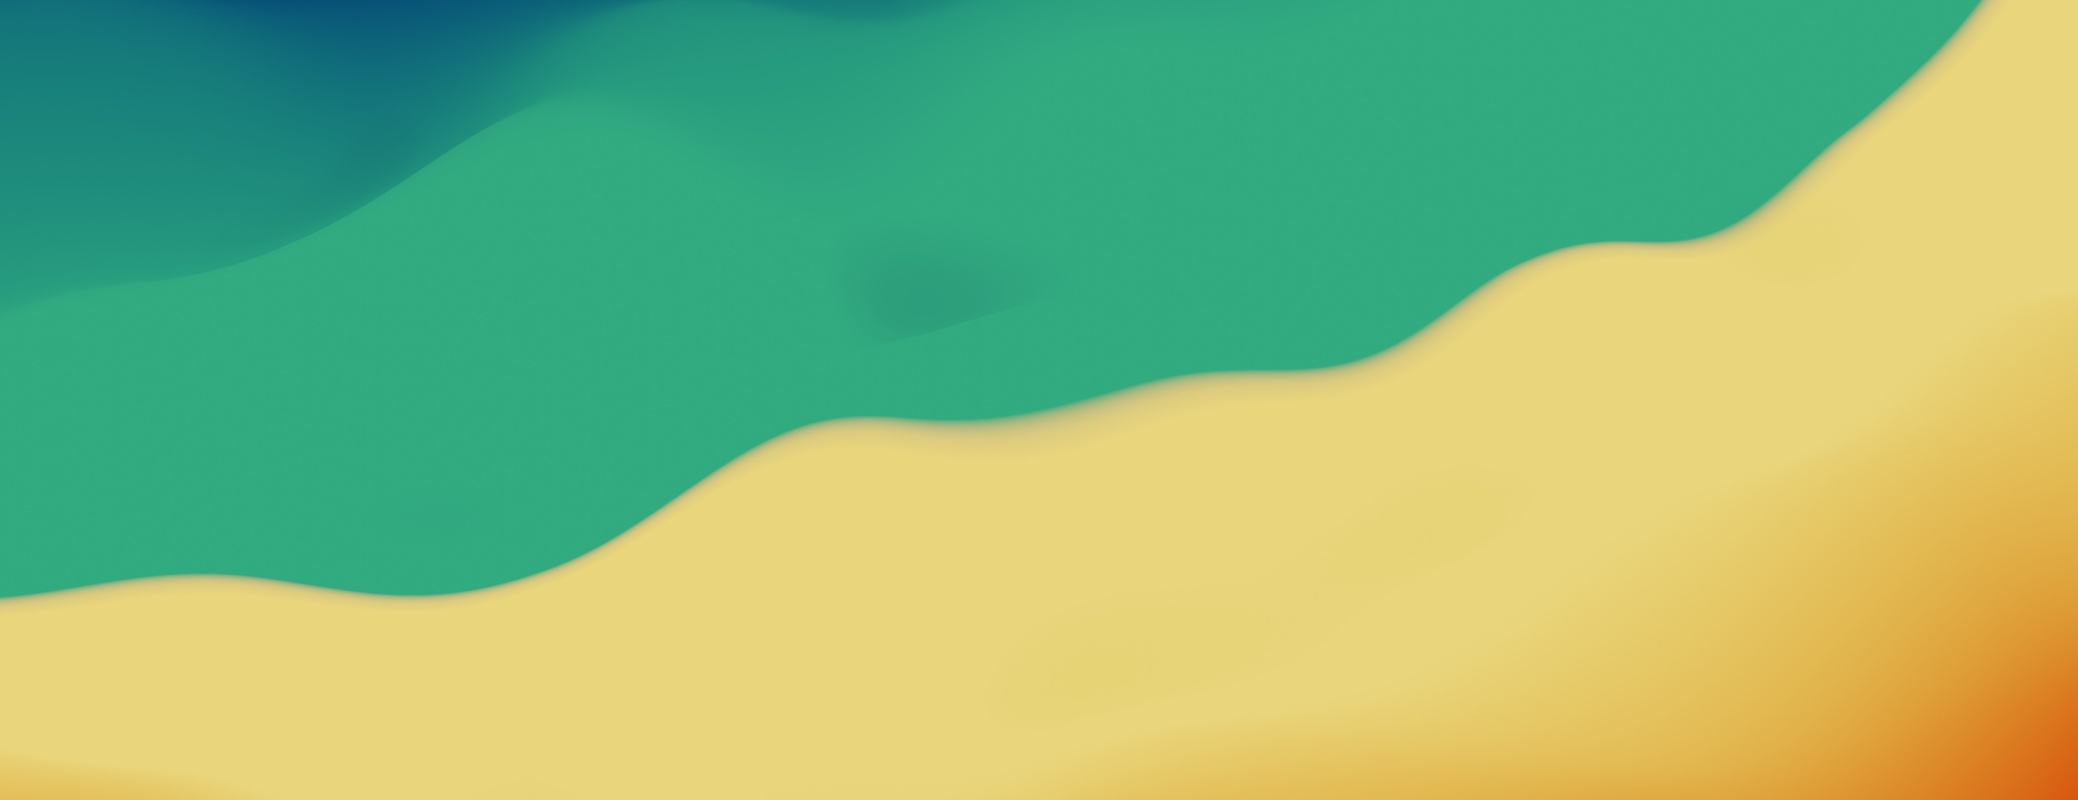
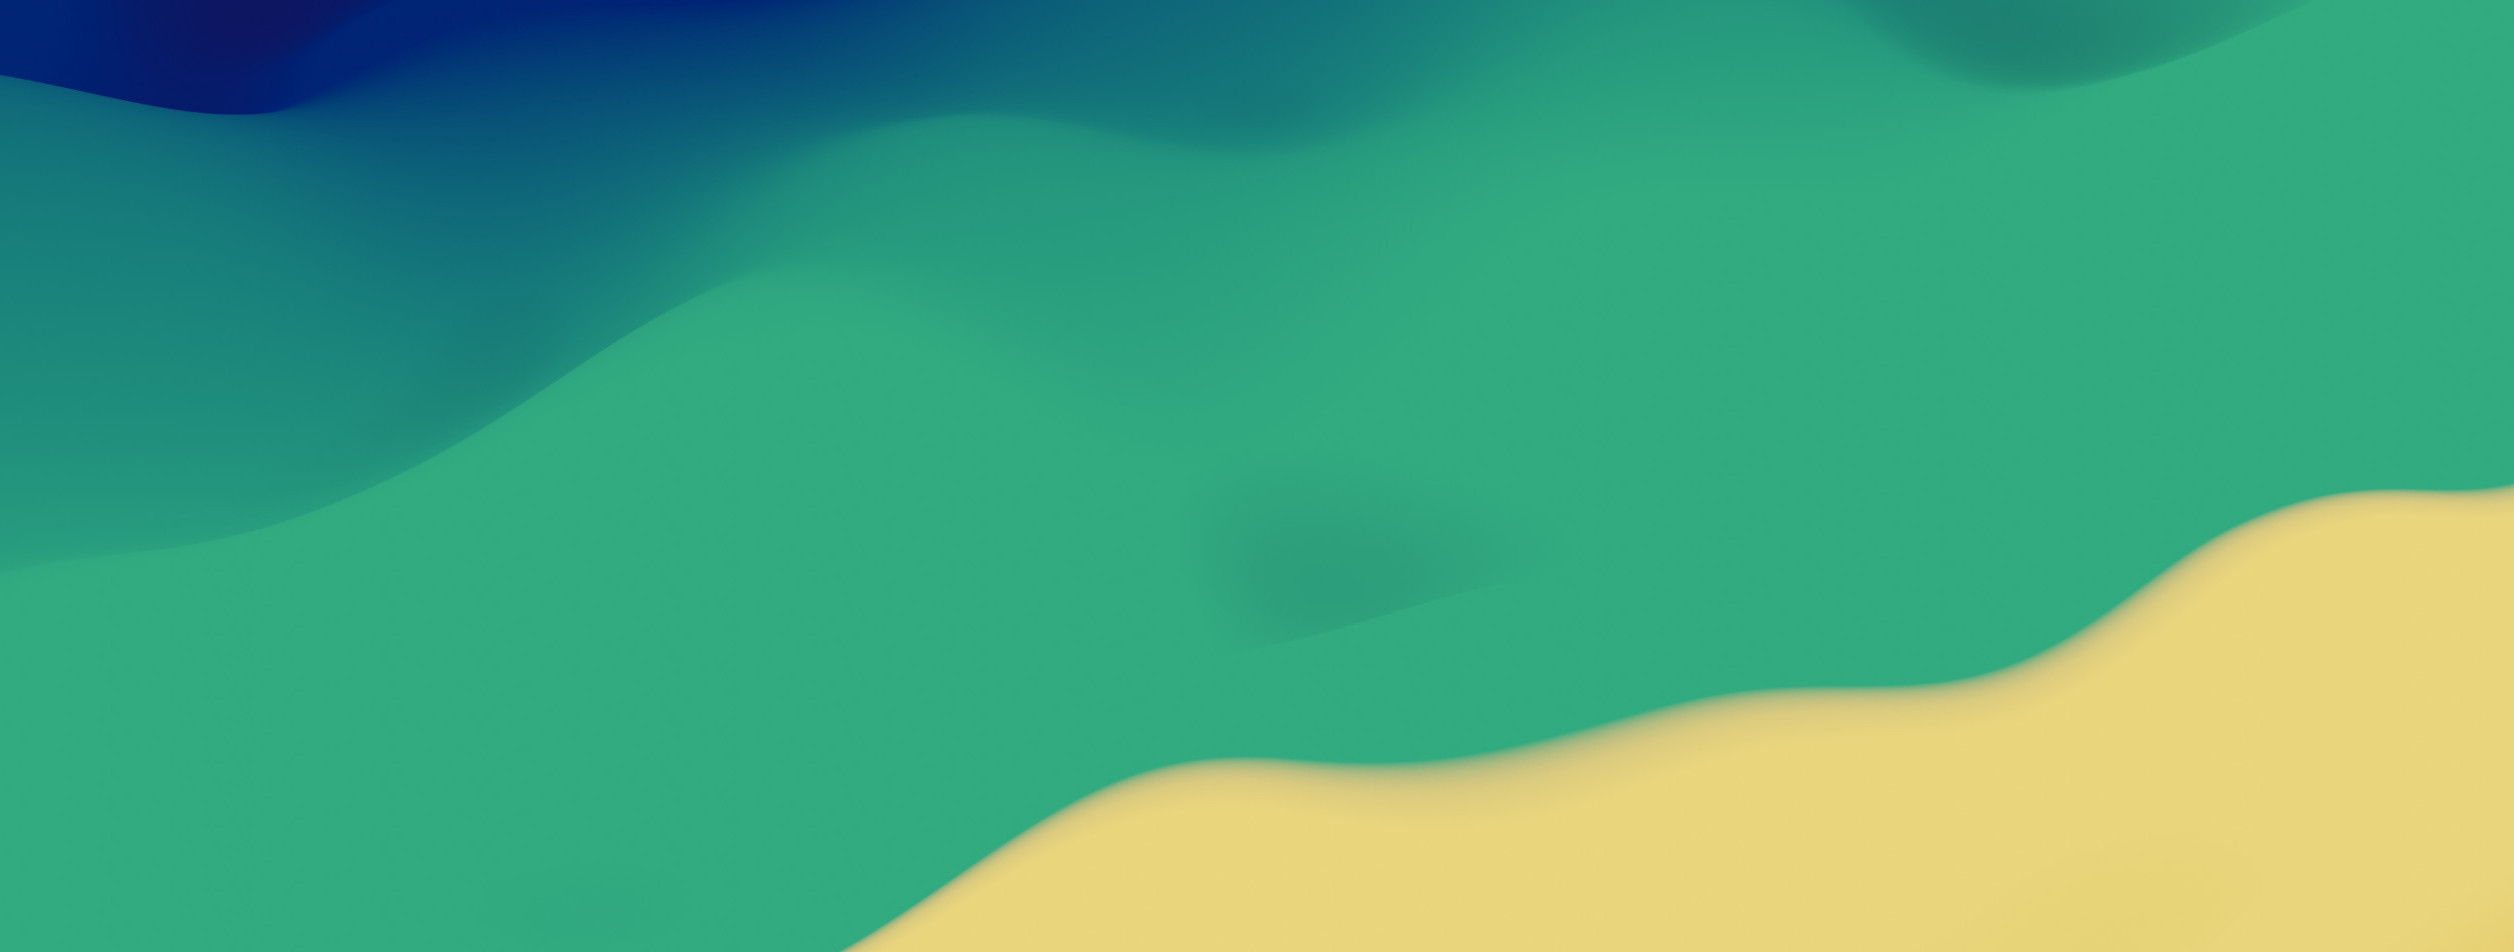
Make intro backdrops non sectioned

diff --git a/src/routes/__layout.svelte b/src/routes/__layout.svelte
@@ -29,7 +29,7 @@
 
 <Header --header-backdrop-image={headerImage} />
 
-<main class:white-title={section != 'plus'}>
+<main>
   <slot />
 </main>
 
@@ -54,6 +54,8 @@
 
     --menu-item-height: 2.25rem;
 
+    --header-height: 6rem;
+
     /* Colors */
     --background-color: #f2f4f6;
 
@@ -63,13 +65,15 @@
     --secondary-color: hsl(239, 100%, 11%);
     --secondary-bg-color: hsla(239, 100%, 11%, 0.05);
 
+    --white-color: hsl(0, 0%, 100%);
+    --white-bg-color: hsla(0, 0%, 100%, 0.05);
+
     --text-color: #4d4d4d;
     --title-color: #000000;
 
-    --intro-title-color: var(--title-color);
+    --intro-title-color: white;
 
-    --header-backdrop-image: url('/images/backdrops/default.jpg');
-    --header-backdrop-position: 'center 0%';
+    --backdrop-position: 'center 0%';
     --backdrop-skew-rotation: -5deg;
     /* https://ddg.gg/?q=tan(5+*+pi+%2F+180)&ia=calculator */
     --backdrop-skew-tan: 0.08748866353;
@@ -77,8 +81,5 @@
   main {
     position: relative;
     flex: 1;
-  }
-  main.white-title {
-    --intro-title-color: white;
   }
 </style>

diff --git a/src/lib/Header/index.svelte b/src/lib/Header/index.svelte
@@ -3,8 +3,6 @@
   import MobileMenu from './MobileMenu.svelte'
 </script>
 
-<div class="backdrop" />
-
 <header>
   <div class="menu">
     <Menu />
@@ -19,7 +17,7 @@
     position: relative;
     padding-left: var(--calculated-content-padding);
     padding-right: var(--calculated-content-padding);
-    height: 6rem;
+    height: var(--header-height);
     display: flex;
     align-items: center;
     justify-content: center;
@@ -30,19 +28,6 @@
     color: white;
 
     background: linear-gradient(to bottom, rgba(0, 0, 0, 0.25), rgba(0, 0, 0, 0));
-  }
-
-  .backdrop {
-    --height: linearClamp(tiny, large, 17, 18);
-    background-image: var(--header-backdrop-image);
-    background-position: var(--header-backdrop-position);
-    background-size: cover;
-    transform: skew(0deg, var(--backdrop-skew-rotation));
-    position: absolute;
-    bottom: calc(100% - var(--height));
-    left: 0;
-    width: 100%;
-    height: calc(var(--height) + 50vw * var(--backdrop-skew-tan));
   }
 
   .menu,

diff --git a/src/lib/Backdrop.svelte b/src/lib/Backdrop.svelte
@@ -1,0 +1,35 @@
+<script type="ts">
+  export let backgroundImage: string = null
+  export let backgroundColor: string = null
+  export let additionalHeight: string = null
+
+  let style = backgroundImage
+    ? `background-image: url("${backgroundImage}");`
+    : `background-color: ${backgroundColor};`
+
+  style += `--additional-height: ${additionalHeight};`
+</script>
+
+<div class="backdrop" {style} class:additional-height={additionalHeight != null} />
+
+<style>
+  :global(:root) {
+    --additional-height: 0px;
+  }
+
+  .backdrop {
+    position: absolute;
+    width: 100%;
+    height: 100%;
+    left: 0;
+    bottom: 0;
+    transform: skew(0deg, var(--backdrop-skew-rotation));
+    z-index: -1;
+    background-size: cover;
+    background-position: var(--backdrop-position);
+  }
+  .backdrop.additional-height {
+    --height: calc(100% + var(--additional-height));
+    height: calc(var(--height) + 50vw * var(--backdrop-skew-tan));
+  }
+</style>

diff --git a/src/routes/js.svelte b/src/routes/js.svelte
@@ -17,7 +17,11 @@
   description="Dropzone.js is an open source library that provides beautiful and easy to use drag'n'drop file uploads with image previews."
 />
 
-<Intro title="File uploads made easy">
+<Intro
+  title="File uploads made easy"
+  backgroundImage="/images/backdrops/js.jpg"
+  --backdrop-position="right center"
+>
   <p>
     <strong>Dropzone.js</strong> is one of the most popular drag and drop JavaScript libraries. It
     is
@@ -28,10 +32,10 @@
   <p>It's meant to look good by default, and is highly customizable.</p>
 
   <Actions>
-    <StyledLink href="https://docs.dropzone.dev/" color="secondary">Documentation</StyledLink>
+    <StyledLink href="https://docs.dropzone.dev/" color="white">Documentation</StyledLink>
     <StyledLink
       href="https://github.com/dropzone/dropzone/releases/latest/download/dist.zip"
-      color="secondary"
+      color="white"
       variant="text">Download</StyledLink
     >
   </Actions>

diff --git a/src/routes/plus.svelte b/src/routes/plus.svelte
@@ -14,7 +14,7 @@
   description="Dropzone Plus is a service that handles your form uploades. It not only handles the data but can also handle submitted files."
 />
 
-<Intro title="We handle your forms">
+<Intro title="We handle your forms" backgroundImage="/images/backdrops/plus.jpg">
   <p>
     Instead of writing your own server logic to handle the submitted data of your forms, use <strong
       >Dropzone Plus</strong
@@ -27,8 +27,8 @@
   </p>
 
   <Actions>
-    <StyledLink href="https://plus.dropzone.dev" color="secondary">Create account</StyledLink>
-    <StyledLink href="https://docs-plus.dropzone.dev" color="secondary" variant="text"
+    <StyledLink href="https://plus.dropzone.dev" color="white">Create account</StyledLink>
+    <StyledLink href="https://docs-plus.dropzone.dev" color="white" variant="text"
       >Documentation</StyledLink
     >
   </Actions>

diff --git a/src/lib/Intro.svelte b/src/lib/Intro.svelte
@@ -1,8 +1,13 @@
 <script>
+  import Backdrop from './Backdrop.svelte'
+
   export let title
+  export let backgroundImage = '/images/backdrops/default.jpg'
 </script>
 
 <section class="wrapper">
+  <Backdrop {backgroundImage} additionalHeight="var(--header-height)" />
+
   <div class="title-section">
     <h1>{title}</h1>
 
@@ -15,6 +20,7 @@
 
 <style>
   .wrapper {
+    position: relative;
     padding: 4rem var(--calculated-content-padding) 4.5rem;
     display: grid;
     grid-auto-flow: row;
@@ -30,6 +36,7 @@
 
   .title-section {
     max-width: 40rem;
+    color: white;
   }
   h1 {
     font-size: linearClamp(tiny, huge, 3rem, 5rem);

diff --git a/src/lib/StyledLink.svelte b/src/lib/StyledLink.svelte
@@ -1,7 +1,7 @@
 <script type="ts">
   export let href: string
   export let variant: 'outlined' | 'contained' | 'text' = 'outlined'
-  export let color: 'primary' | 'secondary' = 'primary'
+  export let color: 'primary' | 'secondary' | 'white' = 'primary'
 
   import ChevronRight from 'svelte-icons/fa/FaChevronRight.svelte'
 </script>
@@ -43,7 +43,6 @@
   .outlined {
     color: var(--color);
     border: 3px solid var(--color);
-    background: white;
   }
   .text {
     color: var(--color);

diff --git a/src/routes/index.svelte b/src/routes/index.svelte
@@ -23,8 +23,8 @@
   </p>
 
   <Actions>
-    <StyledLink href="/plus/" color="secondary">Dropzone Plus</StyledLink>
-    <StyledLink href="/js/" color="secondary" variant="text">Dropzone.js</StyledLink>
+    <StyledLink href="/plus/" color="white">Dropzone Plus</StyledLink>
+    <StyledLink href="/js/" color="white" variant="text">Dropzone.js</StyledLink>
   </Actions>
 
   <div slot="visual" class="visual">

diff --git a/src/lib/ContentSection.svelte b/src/lib/ContentSection.svelte
@@ -1,8 +1,11 @@
 <script>
+  import Backdrop from './Backdrop.svelte'
+
   export let backgroundColor = 'transparent'
 </script>
 
 <section class="wrapper">
+  <Backdrop {backgroundColor} />
   <div class="backdrop" style="background-color: {backgroundColor};" />
   <slot />
 </section>
